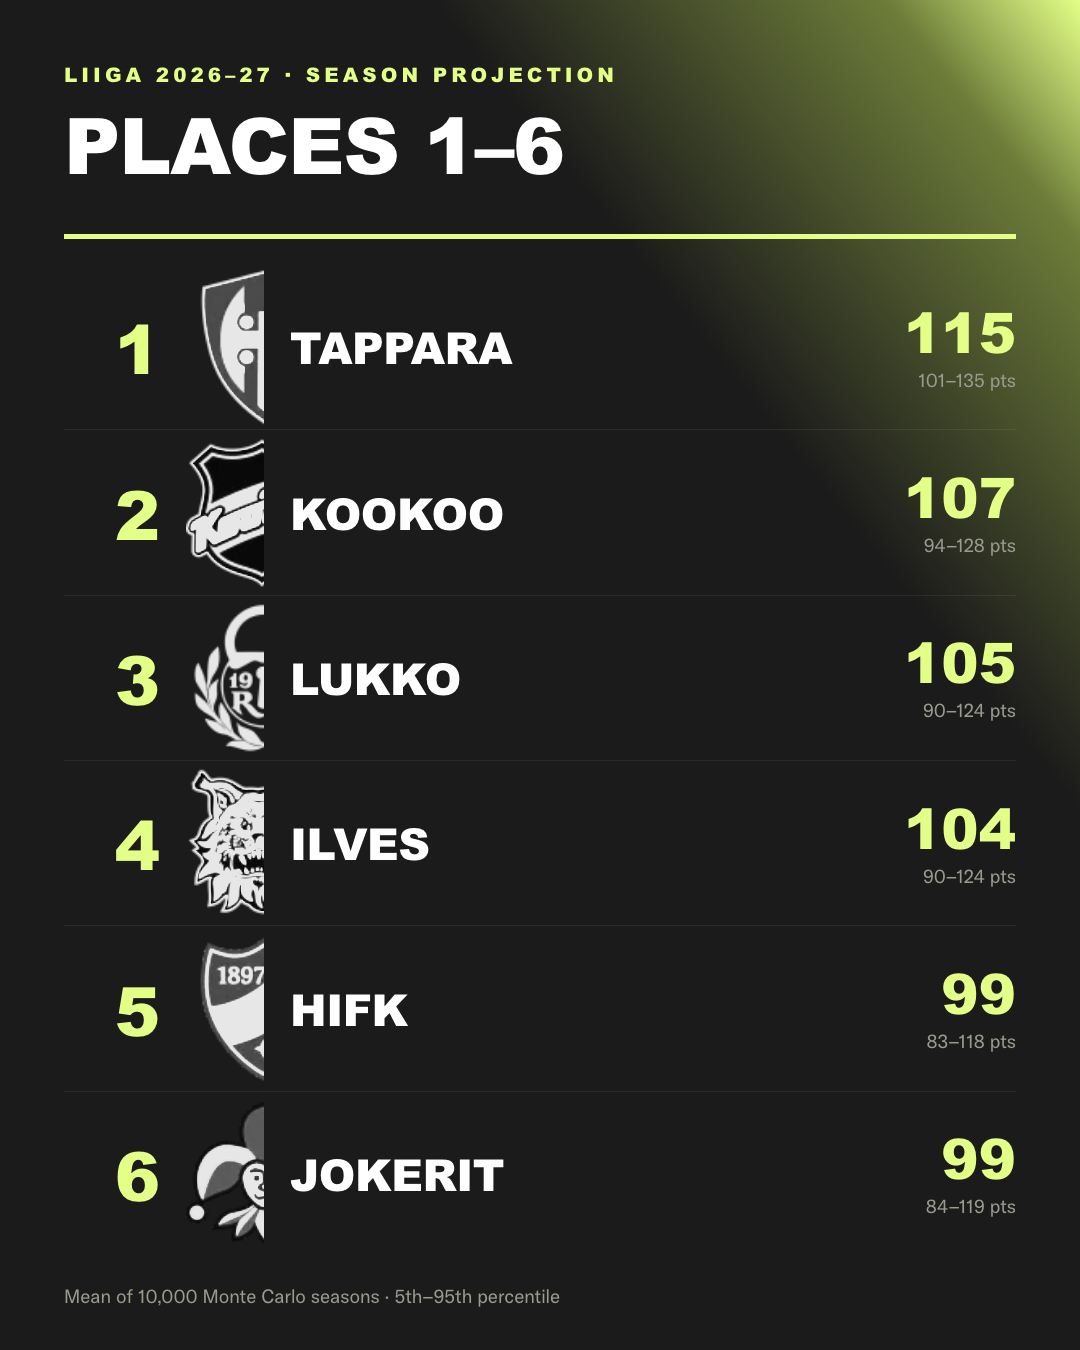
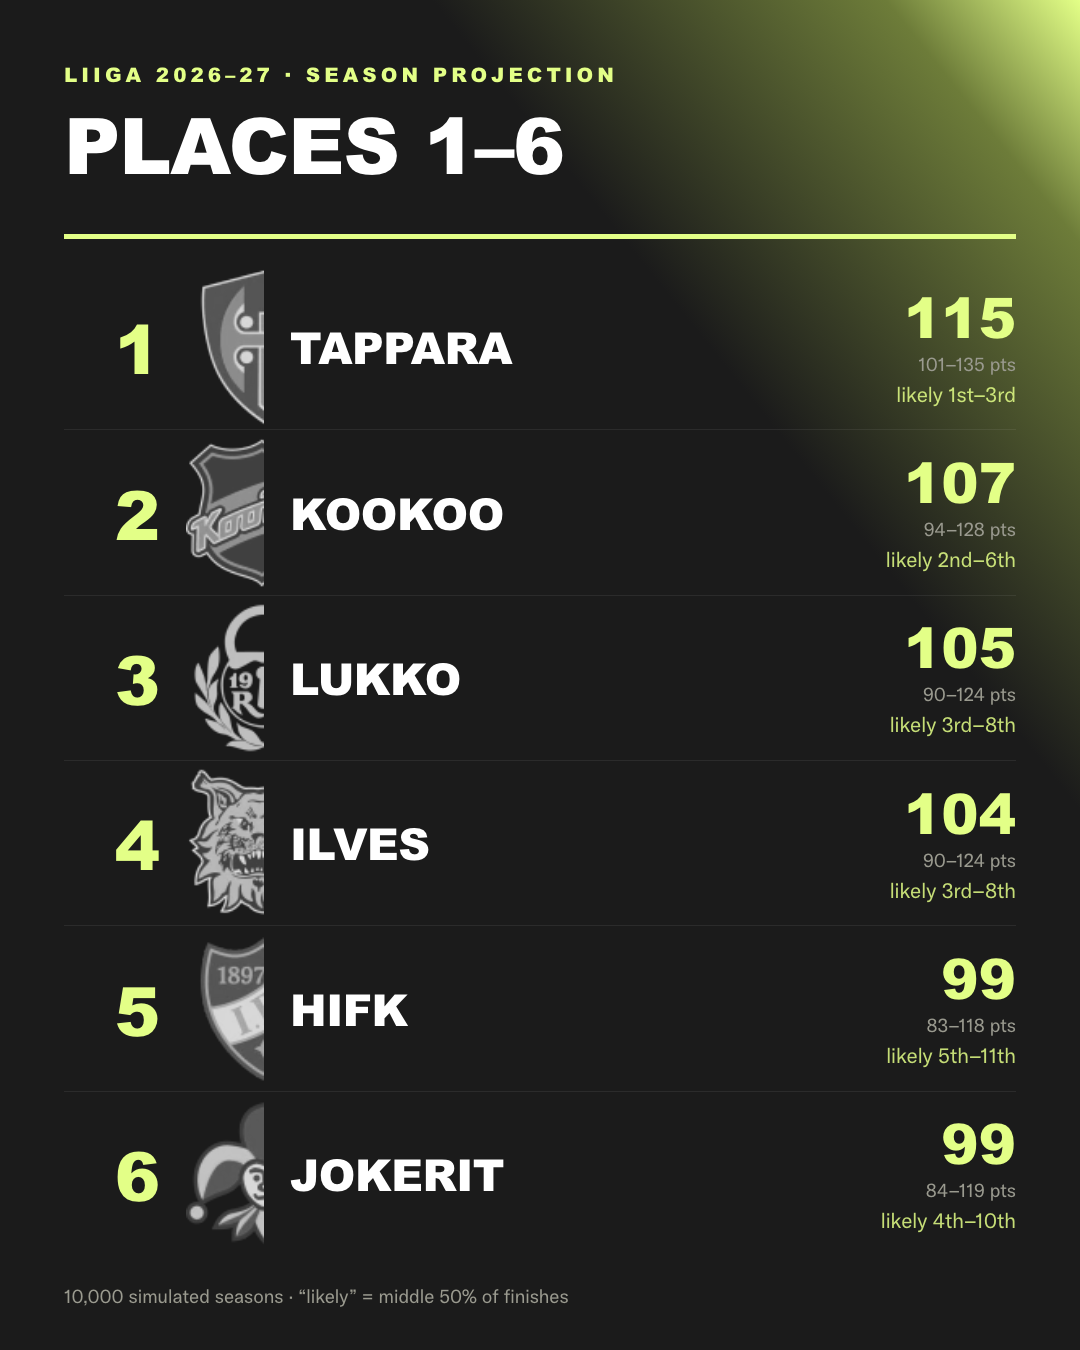
Carousel: normalise crest luminance, add likely-finish range per team
Crests
  Assat and TPS were rendering as solid white blobs while dark-inked crests
  stayed grey -- the grayscale filter was working, but the flat brightness(2.1)
  lift blew out marks that are already light-heavy. Replaced with
  contrast(0.55) BEFORE brightness(1.15), which compresses toward mid-grey
  first: black lands at 0.26, white at 0.89, so every crest sits in the same
  band regardless of its base luminance.

Likely finish
  Third line under each team's points, e.g. "likely 1st-3rd", read from
  position_distribution_2026_27. Uses the interquartile (25th-75th) rank
  range, not 5-95: the 90% band is honest but unreadable on a slide (KooKoo
  would show "1st-11th"), whereas the IQR still carries 50-87% of the
  probability mass and is legible at a glance.

  Footer relabelled to explain that band -- '"likely" = middle 50% of
  finishes' -- since it now describes the more prominent figure.

diff --git a/site_instagram/slide_1.html b/site_instagram/slide_1.html
@@ -26,14 +26,19 @@
      crests are dark-inked and grayscale alone leaves them invisible on black. */
   .chip { width:78px; height:156px; overflow:hidden; flex-shrink:0;
           display:flex; align-items:center; }
+  /* contrast() compresses toward mid-grey BEFORE brightness lifts, so crests
+     with very different base luminance land in the same band. A flat
+     brightness lift blew out the light-heavy marks (Assat, TPS) to solid
+     white while dark ones stayed grey. Maps black->0.26, white->0.89. */
   .chip img { width:156px; height:156px; max-width:none; object-fit:contain;
-              filter:grayscale(1) brightness(2.1) contrast(0.95); opacity:0.92; }
+              filter:grayscale(1) contrast(0.55) brightness(1.15); opacity:0.95; }
   .name { flex:1; font-family:"GT America Expanded","Arial Black",Arial,sans-serif; font-size:44px; text-transform:uppercase;
           letter-spacing:-0.5px; }
   .pts { text-align:right; }
   .ptsn { font-family:"GT America Expanded","Arial Black",Arial,sans-serif; font-size:56px; line-height:1;
           font-variant-numeric:tabular-nums; color:#e3ff87; }
-  .ptsl { font-size:19px; color:#9a9a8f; margin-top:9px; }
+  .ptsl { font-size:19px; color:#9a9a8f; margin-top:8px; }
+  .ptsr { font-size:21px; color:#e3ff87; margin-top:5px; opacity:0.85; }
 
   /* ---- technical slides ---- */
   .step { display:flex; gap:22px; margin-bottom:21px; align-items:flex-start; }
@@ -67,6 +72,7 @@
         <div class="pts">
           <div class="ptsn">115</div>
           <div class="ptsl">101–135 pts</div>
+          <div class="ptsr">likely 1st–3rd</div>
         </div>
       </div>
       <div class="row">
@@ -76,6 +82,7 @@
         <div class="pts">
           <div class="ptsn">107</div>
           <div class="ptsl">94–128 pts</div>
+          <div class="ptsr">likely 2nd–6th</div>
         </div>
       </div>
       <div class="row">
@@ -85,6 +92,7 @@
         <div class="pts">
           <div class="ptsn">105</div>
           <div class="ptsl">90–124 pts</div>
+          <div class="ptsr">likely 3rd–8th</div>
         </div>
       </div>
       <div class="row">
@@ -94,6 +102,7 @@
         <div class="pts">
           <div class="ptsn">104</div>
           <div class="ptsl">90–124 pts</div>
+          <div class="ptsr">likely 3rd–8th</div>
         </div>
       </div>
       <div class="row">
@@ -103,6 +112,7 @@
         <div class="pts">
           <div class="ptsn">99</div>
           <div class="ptsl">83–118 pts</div>
+          <div class="ptsr">likely 5th–11th</div>
         </div>
       </div>
       <div class="row">
@@ -112,7 +122,8 @@
         <div class="pts">
           <div class="ptsn">99</div>
           <div class="ptsl">84–119 pts</div>
+          <div class="ptsr">likely 4th–10th</div>
         </div>
       </div></div>
-    <div class="foot">Mean of 10,000 Monte Carlo seasons · 5th–95th percentile</div>
+    <div class="foot">10,000 simulated seasons · “likely” = middle 50% of finishes</div>
   </div></body></html>

diff --git a/site_instagram/slide_2.html b/site_instagram/slide_2.html
@@ -26,14 +26,19 @@
      crests are dark-inked and grayscale alone leaves them invisible on black. */
   .chip { width:78px; height:156px; overflow:hidden; flex-shrink:0;
           display:flex; align-items:center; }
+  /* contrast() compresses toward mid-grey BEFORE brightness lifts, so crests
+     with very different base luminance land in the same band. A flat
+     brightness lift blew out the light-heavy marks (Assat, TPS) to solid
+     white while dark ones stayed grey. Maps black->0.26, white->0.89. */
   .chip img { width:156px; height:156px; max-width:none; object-fit:contain;
-              filter:grayscale(1) brightness(2.1) contrast(0.95); opacity:0.92; }
+              filter:grayscale(1) contrast(0.55) brightness(1.15); opacity:0.95; }
   .name { flex:1; font-family:"GT America Expanded","Arial Black",Arial,sans-serif; font-size:44px; text-transform:uppercase;
           letter-spacing:-0.5px; }
   .pts { text-align:right; }
   .ptsn { font-family:"GT America Expanded","Arial Black",Arial,sans-serif; font-size:56px; line-height:1;
           font-variant-numeric:tabular-nums; color:#e3ff87; }
-  .ptsl { font-size:19px; color:#9a9a8f; margin-top:9px; }
+  .ptsl { font-size:19px; color:#9a9a8f; margin-top:8px; }
+  .ptsr { font-size:21px; color:#e3ff87; margin-top:5px; opacity:0.85; }
 
   /* ---- technical slides ---- */
   .step { display:flex; gap:22px; margin-bottom:21px; align-items:flex-start; }
@@ -67,6 +72,7 @@
         <div class="pts">
           <div class="ptsn">98</div>
           <div class="ptsl">84–119 pts</div>
+          <div class="ptsr">likely 4th–10th</div>
         </div>
       </div>
       <div class="row">
@@ -76,6 +82,7 @@
         <div class="pts">
           <div class="ptsn">97</div>
           <div class="ptsl">81–115 pts</div>
+          <div class="ptsr">likely 5th–11th</div>
         </div>
       </div>
       <div class="row">
@@ -85,6 +92,7 @@
         <div class="pts">
           <div class="ptsn">94</div>
           <div class="ptsl">82–116 pts</div>
+          <div class="ptsr">likely 5th–11th</div>
         </div>
       </div>
       <div class="row">
@@ -94,6 +102,7 @@
         <div class="pts">
           <div class="ptsn">93</div>
           <div class="ptsl">78–113 pts</div>
+          <div class="ptsr">likely 7th–12th</div>
         </div>
       </div>
       <div class="row">
@@ -103,6 +112,7 @@
         <div class="pts">
           <div class="ptsn">91</div>
           <div class="ptsl">76–111 pts</div>
+          <div class="ptsr">likely 7th–13th</div>
         </div>
       </div>
       <div class="row">
@@ -112,7 +122,8 @@
         <div class="pts">
           <div class="ptsn">89</div>
           <div class="ptsl">74–108 pts</div>
+          <div class="ptsr">likely 9th–14th</div>
         </div>
       </div></div>
-    <div class="foot">Mean of 10,000 Monte Carlo seasons · 5th–95th percentile</div>
+    <div class="foot">10,000 simulated seasons · “likely” = middle 50% of finishes</div>
   </div></body></html>

diff --git a/site_instagram/slide_3.html b/site_instagram/slide_3.html
@@ -26,14 +26,19 @@
      crests are dark-inked and grayscale alone leaves them invisible on black. */
   .chip { width:78px; height:156px; overflow:hidden; flex-shrink:0;
           display:flex; align-items:center; }
+  /* contrast() compresses toward mid-grey BEFORE brightness lifts, so crests
+     with very different base luminance land in the same band. A flat
+     brightness lift blew out the light-heavy marks (Assat, TPS) to solid
+     white while dark ones stayed grey. Maps black->0.26, white->0.89. */
   .chip img { width:156px; height:156px; max-width:none; object-fit:contain;
-              filter:grayscale(1) brightness(2.1) contrast(0.95); opacity:0.92; }
+              filter:grayscale(1) contrast(0.55) brightness(1.15); opacity:0.95; }
   .name { flex:1; font-family:"GT America Expanded","Arial Black",Arial,sans-serif; font-size:44px; text-transform:uppercase;
           letter-spacing:-0.5px; }
   .pts { text-align:right; }
   .ptsn { font-family:"GT America Expanded","Arial Black",Arial,sans-serif; font-size:56px; line-height:1;
           font-variant-numeric:tabular-nums; color:#e3ff87; }
-  .ptsl { font-size:19px; color:#9a9a8f; margin-top:9px; }
+  .ptsl { font-size:19px; color:#9a9a8f; margin-top:8px; }
+  .ptsr { font-size:21px; color:#e3ff87; margin-top:5px; opacity:0.85; }
 
   /* ---- technical slides ---- */
   .step { display:flex; gap:22px; margin-bottom:21px; align-items:flex-start; }
@@ -67,6 +72,7 @@
         <div class="pts">
           <div class="ptsn">89</div>
           <div class="ptsl">77–111 pts</div>
+          <div class="ptsr">likely 7th–13th</div>
         </div>
       </div>
       <div class="row">
@@ -76,6 +82,7 @@
         <div class="pts">
           <div class="ptsn">86</div>
           <div class="ptsl">73–107 pts</div>
+          <div class="ptsr">likely 9th–14th</div>
         </div>
       </div>
       <div class="row">
@@ -85,6 +92,7 @@
         <div class="pts">
           <div class="ptsn">79</div>
           <div class="ptsl">64–98 pts</div>
+          <div class="ptsr">likely 13th–16th</div>
         </div>
       </div>
       <div class="row">
@@ -94,6 +102,7 @@
         <div class="pts">
           <div class="ptsn">71</div>
           <div class="ptsl">57–90 pts</div>
+          <div class="ptsr">likely 15th–17th</div>
         </div>
       </div>
       <div class="row">
@@ -103,7 +112,8 @@
         <div class="pts">
           <div class="ptsn">69</div>
           <div class="ptsl">53–86 pts</div>
+          <div class="ptsr">likely 15th–17th</div>
         </div>
       </div></div>
-    <div class="foot">Mean of 10,000 Monte Carlo seasons · 5th–95th percentile</div>
+    <div class="foot">10,000 simulated seasons · “likely” = middle 50% of finishes</div>
   </div></body></html>

diff --git a/site_instagram/slide_4.html b/site_instagram/slide_4.html
@@ -26,14 +26,19 @@
      crests are dark-inked and grayscale alone leaves them invisible on black. */
   .chip { width:78px; height:156px; overflow:hidden; flex-shrink:0;
           display:flex; align-items:center; }
+  /* contrast() compresses toward mid-grey BEFORE brightness lifts, so crests
+     with very different base luminance land in the same band. A flat
+     brightness lift blew out the light-heavy marks (Assat, TPS) to solid
+     white while dark ones stayed grey. Maps black->0.26, white->0.89. */
   .chip img { width:156px; height:156px; max-width:none; object-fit:contain;
-              filter:grayscale(1) brightness(2.1) contrast(0.95); opacity:0.92; }
+              filter:grayscale(1) contrast(0.55) brightness(1.15); opacity:0.95; }
   .name { flex:1; font-family:"GT America Expanded","Arial Black",Arial,sans-serif; font-size:44px; text-transform:uppercase;
           letter-spacing:-0.5px; }
   .pts { text-align:right; }
   .ptsn { font-family:"GT America Expanded","Arial Black",Arial,sans-serif; font-size:56px; line-height:1;
           font-variant-numeric:tabular-nums; color:#e3ff87; }
-  .ptsl { font-size:19px; color:#9a9a8f; margin-top:9px; }
+  .ptsl { font-size:19px; color:#9a9a8f; margin-top:8px; }
+  .ptsr { font-size:21px; color:#e3ff87; margin-top:5px; opacity:0.85; }
 
   /* ---- technical slides ---- */
   .step { display:flex; gap:22px; margin-bottom:21px; align-items:flex-start; }

diff --git a/site_instagram/slide_5.html b/site_instagram/slide_5.html
@@ -26,14 +26,19 @@
      crests are dark-inked and grayscale alone leaves them invisible on black. */
   .chip { width:78px; height:156px; overflow:hidden; flex-shrink:0;
           display:flex; align-items:center; }
+  /* contrast() compresses toward mid-grey BEFORE brightness lifts, so crests
+     with very different base luminance land in the same band. A flat
+     brightness lift blew out the light-heavy marks (Assat, TPS) to solid
+     white while dark ones stayed grey. Maps black->0.26, white->0.89. */
   .chip img { width:156px; height:156px; max-width:none; object-fit:contain;
-              filter:grayscale(1) brightness(2.1) contrast(0.95); opacity:0.92; }
+              filter:grayscale(1) contrast(0.55) brightness(1.15); opacity:0.95; }
   .name { flex:1; font-family:"GT America Expanded","Arial Black",Arial,sans-serif; font-size:44px; text-transform:uppercase;
           letter-spacing:-0.5px; }
   .pts { text-align:right; }
   .ptsn { font-family:"GT America Expanded","Arial Black",Arial,sans-serif; font-size:56px; line-height:1;
           font-variant-numeric:tabular-nums; color:#e3ff87; }
-  .ptsl { font-size:19px; color:#9a9a8f; margin-top:9px; }
+  .ptsl { font-size:19px; color:#9a9a8f; margin-top:8px; }
+  .ptsr { font-size:21px; color:#e3ff87; margin-top:5px; opacity:0.85; }
 
   /* ---- technical slides ---- */
   .step { display:flex; gap:22px; margin-bottom:21px; align-items:flex-start; }

diff --git a/scripts/build_instagram.py b/scripts/build_instagram.py
@@ -59,6 +59,12 @@ HEAD_F = '"GT America Expanded","Arial Black",Arial,sans-serif'
 BODY_F = '"GT America",Arial,Helvetica,sans-serif'
 
 
+def _ordinal(n: int) -> str:
+    if 11 <= n % 100 <= 13:
+        return f"{n}th"
+    return f"{n}{ {1: 'st', 2: 'nd', 3: 'rd'}.get(n % 10, 'th') }".replace(" ", "")
+
+
 def _slug(team: str) -> str:
     return (team.lower().replace("ä", "a").replace("ö", "o").replace("å", "a")
             .replace(" ", "-"))
@@ -107,14 +113,19 @@ def css(t: dict) -> str:
      crests are dark-inked and grayscale alone leaves them invisible on black. */
   .chip {{ width:78px; height:156px; overflow:hidden; flex-shrink:0;
           display:flex; align-items:center; }}
+  /* contrast() compresses toward mid-grey BEFORE brightness lifts, so crests
+     with very different base luminance land in the same band. A flat
+     brightness lift blew out the light-heavy marks (Assat, TPS) to solid
+     white while dark ones stayed grey. Maps black->0.26, white->0.89. */
   .chip img {{ width:156px; height:156px; max-width:none; object-fit:contain;
-              filter:grayscale(1) brightness(2.1) contrast(0.95); opacity:0.92; }}
+              filter:grayscale(1) contrast(0.55) brightness(1.15); opacity:0.95; }}
   .name {{ flex:1; font-family:{HEAD_F}; font-size:44px; text-transform:uppercase;
           letter-spacing:-0.5px; }}
   .pts {{ text-align:right; }}
   .ptsn {{ font-family:{HEAD_F}; font-size:56px; line-height:1;
           font-variant-numeric:tabular-nums; color:{t['accent']}; }}
-  .ptsl {{ font-size:19px; color:{t['muted']}; margin-top:9px; }}
+  .ptsl {{ font-size:19px; color:{t['muted']}; margin-top:8px; }}
+  .ptsr {{ font-size:21px; color:{t['accent']}; margin-top:5px; opacity:0.85; }}
 
   /* ---- technical slides ---- */
   .step {{ display:flex; gap:22px; margin-bottom:21px; align-items:flex-start; }}
@@ -141,7 +152,7 @@ def page(t: dict, inner: str) -> str:
             f"<style>{css(t)}</style></head><body>{inner}</body></html>")
 
 
-def standings_slide(rows, lo: int, hi: int, t: dict) -> str:
+def standings_slide(rows, lo: int, hi: int, t: dict, bands: dict) -> str:
     body = "".join(f"""
       <div class="row">
         <div class="rank">{int(r.proj_rank)}</div>
@@ -150,6 +161,7 @@ def standings_slide(rows, lo: int, hi: int, t: dict) -> str:
         <div class="pts">
           <div class="ptsn">{r.mean_points:.0f}</div>
           <div class="ptsl">{int(r.p05_points)}–{int(r.p95_points)} pts</div>
+          <div class="ptsr">likely {bands[r.team]}</div>
         </div>
       </div>""" for r in rows)
     return page(t, f"""
@@ -160,7 +172,7 @@ def standings_slide(rows, lo: int, hi: int, t: dict) -> str:
     </div>
     <div class="rule"></div>
     <div class="body standings">{body}</div>
-    <div class="foot">Mean of {N_SIMS} Monte Carlo seasons · 5th–95th percentile</div>
+    <div class="foot">{N_SIMS} simulated seasons · “likely” = middle 50% of finishes</div>
   </div>""")
 
 
@@ -272,8 +284,29 @@ def build() -> None:
         st = query_df(con, """SELECT proj_rank, team, mean_points, p05_points,
                                      p95_points
                               FROM standings_2026_27 ORDER BY proj_rank""")
+        pos = query_df(con, "SELECT * FROM position_distribution_2026_27")
     finally:
         con.close()
+
+    # Interquartile finishing range per team. The 5-95 band is honest but far
+    # too wide to be useful on a slide (KooKoo would read "1st-11th"); the IQR
+    # still carries 50-87% of the probability mass and is legible at a glance.
+    bands = {}
+    if not pos.empty:
+        cols = [f"rank_{i}" for i in range(1, 18)]
+        pos = pos.set_index("team")
+        for team in st["team"]:
+            cum, lo_r, hi_r = 0.0, None, 17
+            for i, c in enumerate(cols, 1):
+                cum += float(pos.loc[team, c])
+                if lo_r is None and cum >= 0.25:
+                    lo_r = i
+                if cum >= 0.75:
+                    hi_r = i
+                    break
+            lo_r = lo_r or 1
+            bands[team] = (f"{_ordinal(lo_r)}–{_ordinal(hi_r)}" if lo_r != hi_r
+                           else _ordinal(lo_r))
     if st.empty:
         raise SystemExit("standings_2026_27 empty — run scripts/refresh_standings.py")
 
@@ -281,7 +314,7 @@ def build() -> None:
     slides = []
     for i, (lo, hi) in enumerate([(1, 6), (7, 12), (13, 17)]):
         rows = list(st[(st.proj_rank >= lo) & (st.proj_rank <= hi)].itertuples())
-        slides.append(standings_slide(rows, lo, hi, themes[i]))
+        slides.append(standings_slide(rows, lo, hi, themes[i], bands))
     slides.append(how_slide(themes[3]))
     slides.append(next_slide(themes[4]))
 
